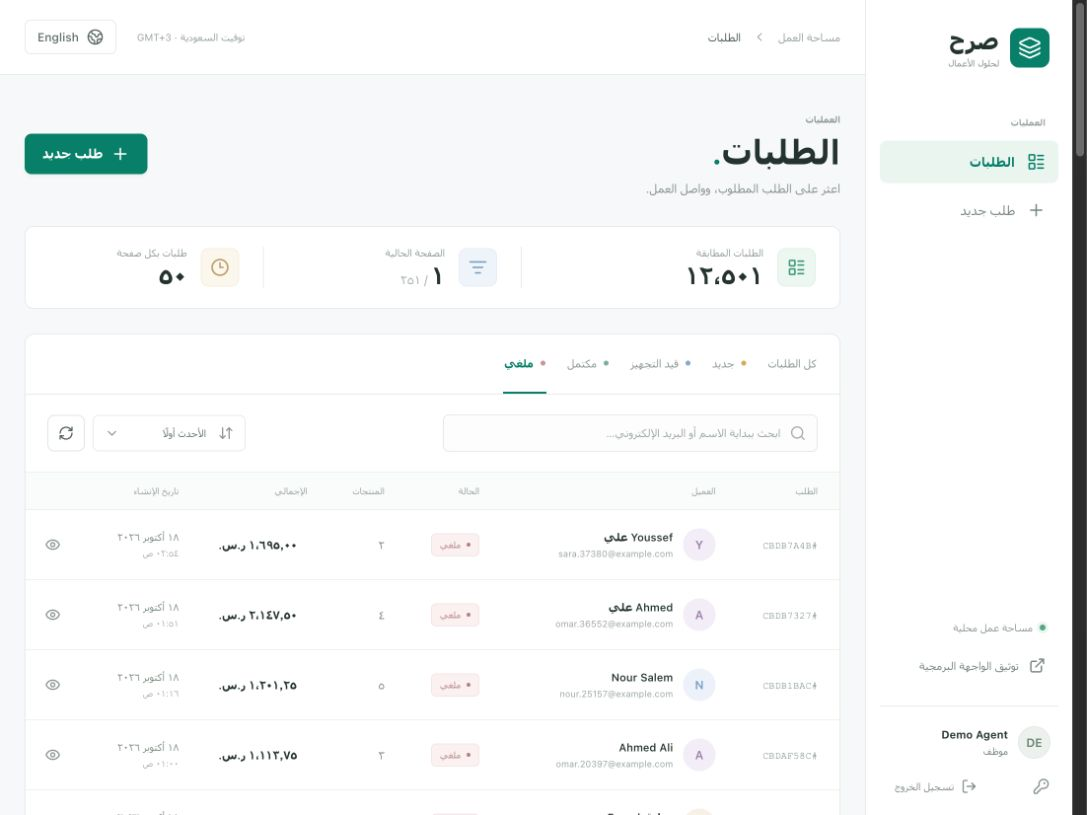
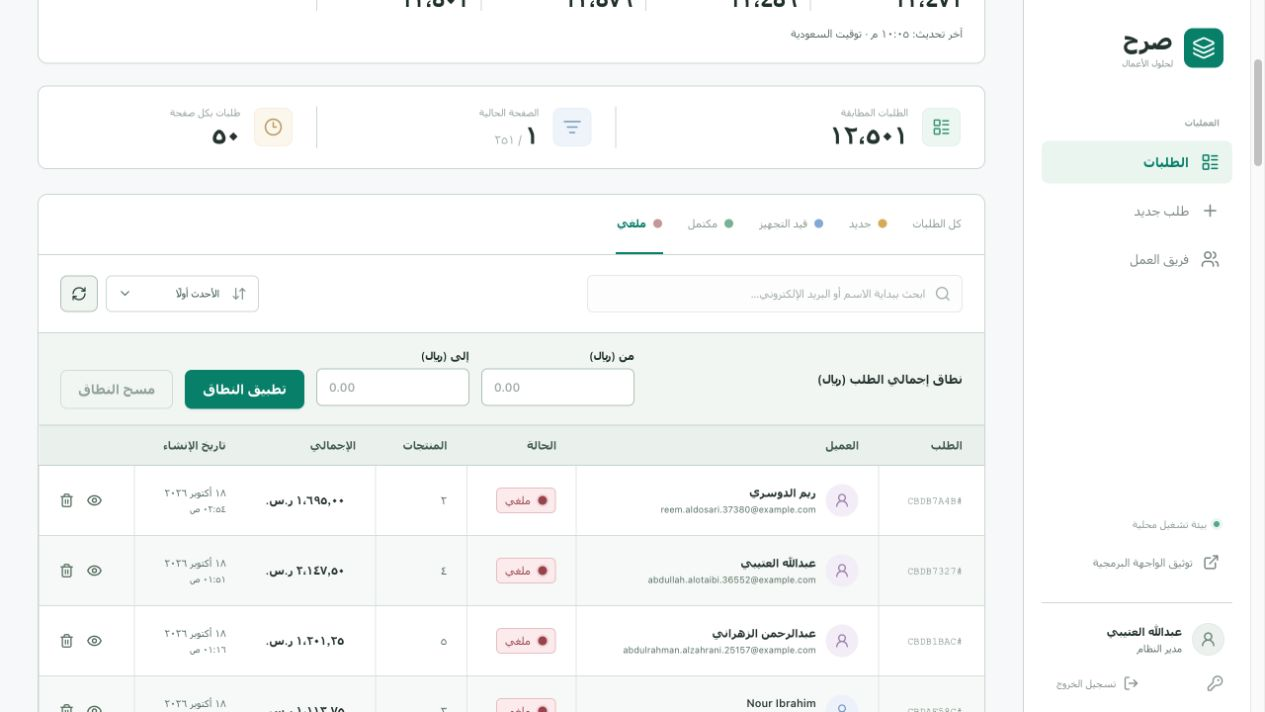
docs: refresh three submission screenshots and captured test evidence

diff --git a/submission/verification.html b/submission/verification.html
@@ -1,8 +1,8 @@
 <!doctype html><html lang="en"><meta charset="utf-8"><meta name="viewport" content="width=device-width,initial-scale=1"><title>SARH — Duplicate proof</title><style>*{box-sizing:border-box}body{margin:0;background:#f4f7f5;color:#203c30;font:15px system-ui;padding:42px}main{max-width:960px;margin:auto}.brand{color:#087f68;font-size:13px;letter-spacing:2px;font-weight:750}h1{font-size:32px;letter-spacing:-1px;margin:12px 0}p{color:#7b9182;font-size:13px;line-height:1.8}.badge{display:inline-flex;align-items:center;gap:8px;border:1px solid #c8e3d2;background:#e9f5ed;color:#208351;padding:7px 11px;border-radius:5px;font-size:12px;margin:14px 0 18px}pre{white-space:pre-wrap;overflow-wrap:anywhere;background:#112c22;border:1px solid #284c39;color:#d7eadc;padding:26px;border-radius:10px;font:12px/1.8 ui-monospace,monospace;box-shadow:0 10px 30px #244c3112}.foot{font-size:11px;color:#8ca28e;margin-top:20px}code{background:#e9f0ea;padding:2px 5px;border-radius:3px}</style><main><div class="brand">SARH / VERIFICATION</div><h1>Eight requests. One order.</h1><p>Actual captured test output from the local Express API and a real, isolated MongoDB database.<br>The test asserts one 201 response, seven 200 replays, a shared order ID, and exactly one committed record.</p><div class="badge">✓ Duplicate-creation proof passed</div><pre>&gt; sarh-backend@0.1.0 proof:duplicates
 &gt; node --import tsx --test --test-name-pattern=&#x27;parallel creates&#x27; tests/integration.test.ts
 
-Duplicate proof: 8 parallel HTTP requests =&gt; 1 order (6ad647dda05c92b6aab43ada), total=37650 halalas
-✔ parallel creates, lost response replay, conflict, and soft-delete leave exactly one order (373.424791ms)
+Duplicate proof: 8 parallel HTTP requests =&gt; 1 order (6ad66a03eefc9449287a0460), total=37650 halalas
+✔ parallel creates, lost response replay, conflict, and soft-delete leave exactly one order (320.597375ms)
 ℹ tests 1
 ℹ suites 0
 ℹ pass 1
@@ -10,4 +10,4 @@ Duplicate proof: 8 parallel HTTP requests =&gt; 1 order (6ad647dda05c92b6aab43ad
 ℹ cancelled 0
 ℹ skipped 0
 ℹ todo 0
-ℹ duration_ms 1000.872709</pre><p class="foot">Reproduce: <code>npm --prefix backend run proof:duplicates</code><br>The test also checks conflicting input, a lost-response replay, and replay after soft deletion. This page only presents the captured transcript; it does not run or simulate a test.</p></main></html>
+ℹ duration_ms 851.919459</pre><p class="foot">Reproduce: <code>npm --prefix backend run proof:duplicates</code><br>The test also checks conflicting input, a lost-response replay, and replay after soft deletion. This page only presents the captured transcript; it does not run or simulate a test.</p></main></html>

diff --git a/submission/README.md b/submission/README.md
@@ -1,18 +1,20 @@
 # Submission evidence
 
-Three screenshots are included as the assignment's screenshot alternative to a two-minute recording:
+Three current screenshots are included as the assignment's alternative to a two-minute recording. Captured from the real local application on 19 October 2026:
 
-1. `01-rapid-filter-ar.png`: actual Arabic UI after Pending → Processing → Cancelled changes; Cancelled is selected and visible rows match. A screenshot cannot prove response arrival order, so the adversarial reversed-response test in `frontend/src/hooks/useRemote.test.tsx` supplies that guarantee.
-2. `02-create-order-ar.png`: actual UI success after creating a customer order with Keyboard × 3 at SAR 40.00; the backend saved SAR 120.00 and the form prepared the next draft.
-3. `03-duplicate-proof.png`: an HTML presentation of the **captured real test output**, not a simulated test runner. The underlying `duplicate-proof.txt` records eight parallel HTTP create calls producing one committed order, then replay/conflict/soft-delete checks.
+1. [01-rapid-filter-ar.png](01-rapid-filter-ar.png) — **R1 rapid-filter check:** changed Pending → Processing → Cancelled quickly. Cancelled is the final selected filter; all visible rows match it, with 12,501 matching orders and 50 rows per page. This is the observed final state, not a claim that a still image proves response timing. The adversarial test in `frontend/src/hooks/useRemote.test.tsx` completes three requests in reverse order and proves that an older success/failure cannot overwrite the latest result.
+2. [02-orders-overview-ar.png](02-orders-overview-ar.png) — **R1 scale and O1 overview:** the unfiltered view shows 50,004 orders, 50 rows per page, and 1,001 pages. The independent statistics panel shows global status counts and today's revenue. This is a development snapshot; the extra four orders came from earlier manual use. A fresh seed creates exactly 50,000.
+3. [03-duplicate-proof.png](03-duplicate-proof.png) — **R2 duplicate proof:** a presentation of freshly captured real HTTP/MongoDB test output. Eight identical concurrent create requests yield one `201`, seven `200` replays, the same order ID, and exactly one committed record, verified by assertions. The test also checks conflicts, recovery and replay after soft deletion. It runs against an isolated test database and does not create orders in the development database.
 
-`frontend-tests.txt` contains the frontend test run. Reproduce the proof with:
+`duplicate-proof.txt` is the actual captured proof transcript; `verification.html` presents that transcript and does not execute or simulate tests. `frontend-tests.txt` records the current frontend suite: 13 passing tests across 7 files, including reversed-response safety, integer inputs, amount ranges and statistics cancellation/error/retry.
+
+Reproduce the checks with MongoDB running:
 
 ```sh
 npm --prefix backend run proof:duplicates
 npm --prefix frontend test
 ```
 
-`verification.html` only displays the captured stdout; it does not execute tests. Screenshots were captured from the local browser on 19 October 2026. The development DB now contains 50,001 orders because of the real UI creation; a fresh seed creates exactly 50,000.
+For the manual rapid-filter check, open Orders, optionally enable Slow 3G in browser Network tools, select three different status filters quickly, and wait. The selected final status and every displayed row must agree. For O1, refresh the statistics then navigate away before four seconds; its request is canceled.
 
-If recording instead: sign in, show the full count, change the filter three times quickly, search/sort/page, create a product-backed order, then run the duplicate-proof command and show the one-record assertion. Keep the recording around two minutes. No recording, upload or email submission has been performed automatically.
+If recording instead, show the full count, change filters three times quickly, search/sort/page, then run the duplicate-proof command and show the one-record assertion. Keep the recording around two minutes. No recording, remote upload or email submission has been performed automatically.
